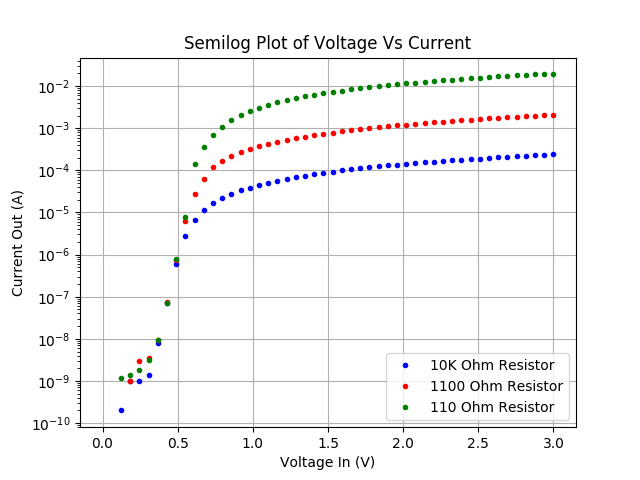
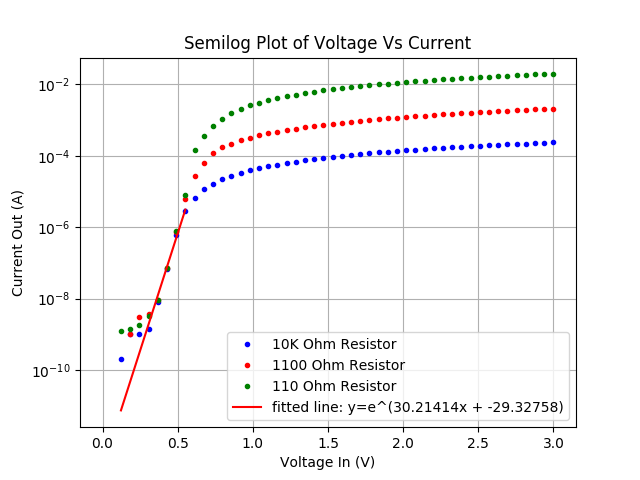
done with all the graphs

diff --git a/lab 2/exp2graphall.py b/lab 2/exp2graphall.py
@@ -4,7 +4,7 @@
 
 import numpy as np
 import matplotlib.pyplot as plt
-from exp2transistorv import ion10k_val, ion1k_val
+from exp2graph10k import von10k
 from scipy import stats
 
 iss = (1.0*10**-15)
@@ -16,21 +16,17 @@ I100 = open('exp 2 110 resistor/I.txt', 'r').read().split()
 theoretical10K = []
 theoretical1K = []
 theoretical100 = []
-linear_v = []
-linear_i = []
-
-von10k = ut*np.log(ion10k_val/iss)
-von1k = ut*np.log(ion1k_val/iss)
-print(von1k)
+linear_v_10k = []
+linear_i_10k = []
 
 i = 0
 for x in Vin:
     val = float(x)
     Vin[i]= val
-    if val < .6:
+    if val < von10k:
         if float(I10K[i]) > 0:
-            linear_v.append(val)
-            linear_i.append(np.log(float(I10K[i])))
+            linear_v_10k.append(val)
+            linear_i_10k.append(np.log(float(I10K[i])))
     theoretical1K.append(val/1100)
     theoretical100.append(val/110)
     i = i+1
@@ -53,12 +49,12 @@ for x in I100:
     I100[i]= val
     i = i+1
 
-slope, intercept, r_value, p_value, std_err = stats.linregress(linear_v[5:], linear_i[5:])
+slope, intercept, r_value, p_value, std_err = stats.linregress(linear_v_10k[5:], linear_i_10k[5:])
 iss = np.exp(intercept)
 ut = 1/slope
 print("Is ", iss)
 print("Ut ", ut)
-linear_v = np.array(linear_v)
+linear_v_10k = np.array(linear_v_10k)
 
 i = 0
 for val in Vin:
@@ -76,12 +72,10 @@ if __name__ == '__main__':
     Data = plt.semilogy(Vin, I10K, 'bo', markersize=3, label="10K Ohm Resistor")
     Data = plt.semilogy(Vin, I1K, 'ro', markersize=3, label="1100 Ohm Resistor")
     Data = plt.semilogy(Vin, I100, 'go', markersize=3, label="110 Ohm Resistor")
-    Data = plt.semilogy(Vin[2:], theoretical10K[2:], 'bx', markersize=5, label="10K Ohm Resistor")
-    Data = plt.semilogy(linear_v, np.exp(slope*(linear_v)+intercept), 'r', label="fitted line")
+    Data = plt.semilogy(linear_v_10k, np.exp(slope*(linear_v_10k)+intercept), 'r', label="fitted line: y=e^("+str(round(slope, 5))+"x + " +str(round(intercept, 5)) + ")")
     #Data = plt.plot(linear_v[5:], linear_i[5:], 'r', label="fitted line")
     #Data = plt.semilogy(Vin, theoretical1K, 'rx', markersize=3, label="1100 Ohm Resistor")
     #Data = plt.semilogy(Vin, theoretical100, 'gx', markersize=3, label="110 Ohm Resistor")
-
 
     plt.legend()
     plt.xlabel(xLabel)

diff --git a/lab 2/exp2transistorv.py b/lab 2/exp2transistorv.py
@@ -3,7 +3,9 @@
 
 
 import numpy as np
+from exp2graph10k import von10k
 import matplotlib.pyplot as plt
+from scipy import stats
 
 
 Vin = open('exp 2 10k resistor/Vin.txt', 'r').read().split()
@@ -16,6 +18,8 @@ I100 = open('exp 2 110 resistor/I.txt', 'r').read().split()
 ion10k = []
 ion1k = []
 ion100 = []
+linear_vin = []
+linear_vt = []
 
 i = 0
 for x in Vin:
@@ -26,6 +30,9 @@ for x in Vin:
 i = 0
 for x in Vt10K:
     val = float(x)
+    if Vin[i] < von10k:
+        linear_vin.append(Vin[i])
+        linear_vt.append(val)
     Vt10K[i]= val
     i = i+1
 
@@ -59,22 +66,8 @@ for x in I100:
     I100[i]= val
     i = i+1
 
-print(len(Vt10K))
-print(len(Vin))
-i = 0
-for val in Vin:
-    frac = val / Vt10K[i]
-    frac2 = val / Vt1K[i]
-    frac3 = val / Vt100[i]
-    ion10k.append((frac*I10K[i])/(1-frac))
-    ion1k.append((frac2*I1K[i])/(1-frac2))
-    ion100.append((frac3*I100[i])/(1-frac3))
-    i = i+1
-
-ion10k_val = np.mean(ion10k)
-print(ion10k_val)
-ion1k_val = np.mean(ion1k)
-print(ion1k_val)
+slope, intercept, r_value, p_value, std_err = stats.linregress(linear_vin, linear_vt)
+linear_vin = np.array(linear_vin)
 
 
 if __name__ == '__main__':
@@ -86,6 +79,7 @@ if __name__ == '__main__':
     Data = plt.plot(Vin, Vt10K, 'bo', markersize=3, label="10K Ohm Resistor")
     Data = plt.plot(Vin, Vt1K, 'ro', markersize=3, label="1100 Ohm Resistor")
     Data = plt.plot(Vin, Vt100, 'go', markersize=3, label="110 Ohm Resistor")
+    Data = plt.plot(linear_vin, (slope*linear_vin)+intercept, 'r', label="fitted line: y="+str(round(slope, 5))+"x + " +str(round(intercept,5)))
 
     plt.legend()
     plt.xlabel(xLabel)

diff --git a/lab 2/exp2graph10k.py b/lab 2/exp2graph10k.py
@@ -33,22 +33,24 @@ slope, intercept, r_value, p_value, std_err = stats.linregress(linear_v, linear_
 linear_v = np.array(linear_v)
 
 von10k = (-1*intercept)/slope
+print(von10k)
 
 
-title = "Plot of Voltage Vs Current"
-xLabel = "Voltage In (V)"
-yLabel = "Current Out (A)"
-linear_v = np.array(linear_v)
-Vin = np.array(Vin)
+if __name__ == '__main__':
+    title = "Plot of Voltage Vs Current"
+    xLabel = "Voltage In (V)"
+    yLabel = "Current Out (A)"
+    linear_v = np.array(linear_v)
+    Vin = np.array(Vin)
 
 
-Data = plt.plot(Vin, I10K, 'bo', markersize=3, label="10K Ohm Resistor")
-Data = plt.plot(Vin, (slope*Vin)+intercept, 'r', label="fitted line: y="+str(slope)+"x + " +str(intercept))
+    Data = plt.plot(Vin, I10K, 'bo', markersize=3, label="10K Ohm Resistor")
+    Data = plt.plot(Vin, (slope*Vin)+intercept, 'r', label="fitted line: y="+str(slope)+"x + " +str(intercept))
 
 
-plt.legend()
-plt.xlabel(xLabel)
-plt.ylabel(yLabel)
-plt.title(title)
-plt.grid(True)
-plt.show()
+    plt.legend()
+    plt.xlabel(xLabel)
+    plt.ylabel(yLabel)
+    plt.title(title)
+    plt.grid(True)
+    plt.show()
